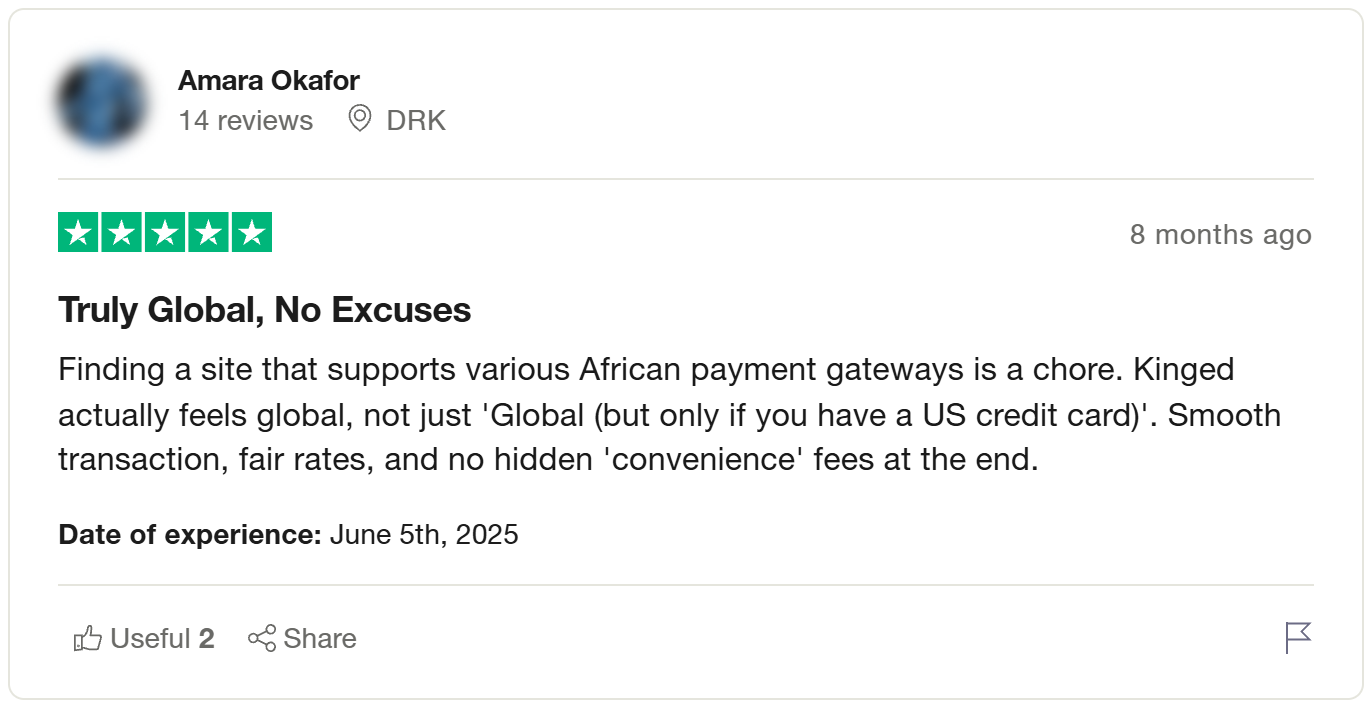
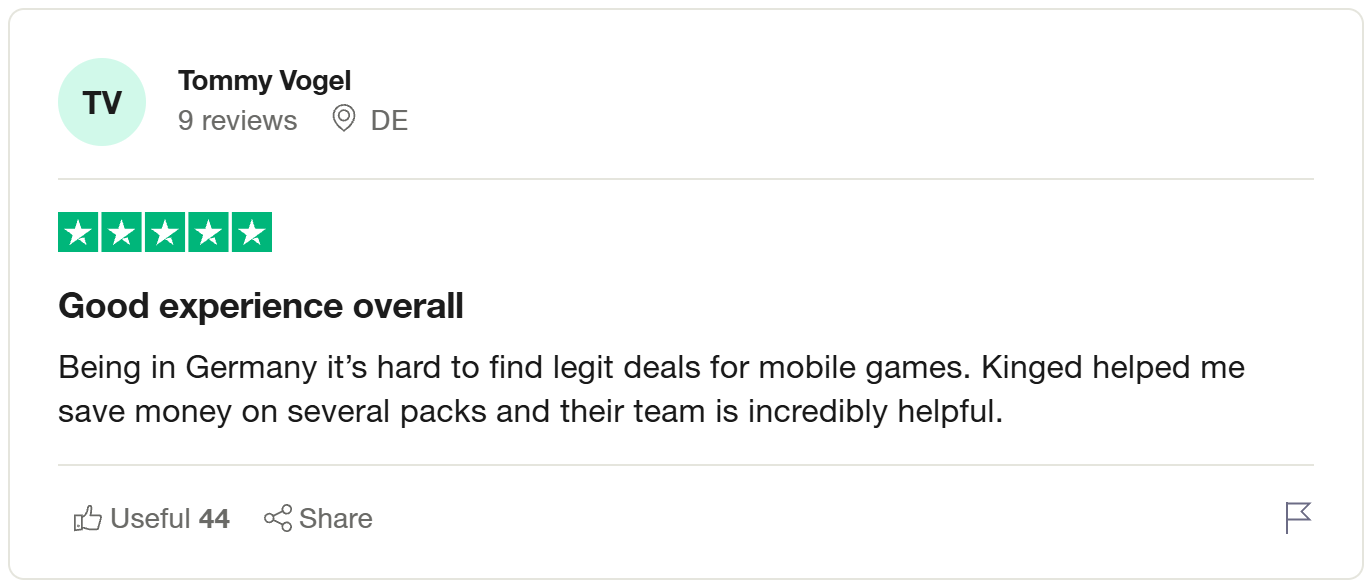
recenzije

diff --git a/components/Reviews.tsx b/components/Reviews.tsx
@@ -11,6 +11,9 @@ const images = [
   "/images/reviews/review4.png",
   "/images/reviews/review5.png",
   "/images/reviews/review6.png",
+  "/images/reviews/review7.png",
+  "/images/reviews/review8.png",
+  "/images/reviews/review9.png",
 ];
 
 const Reviews = () => {
